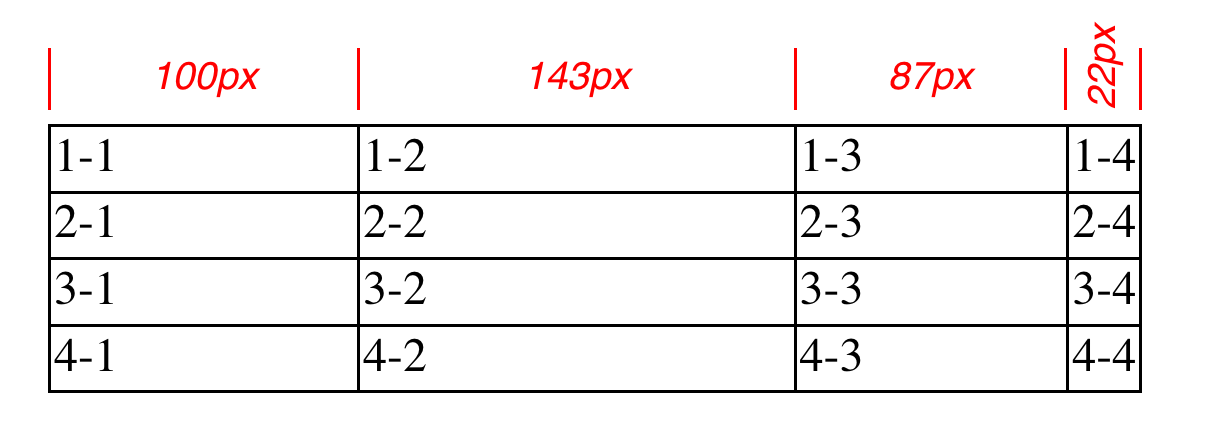
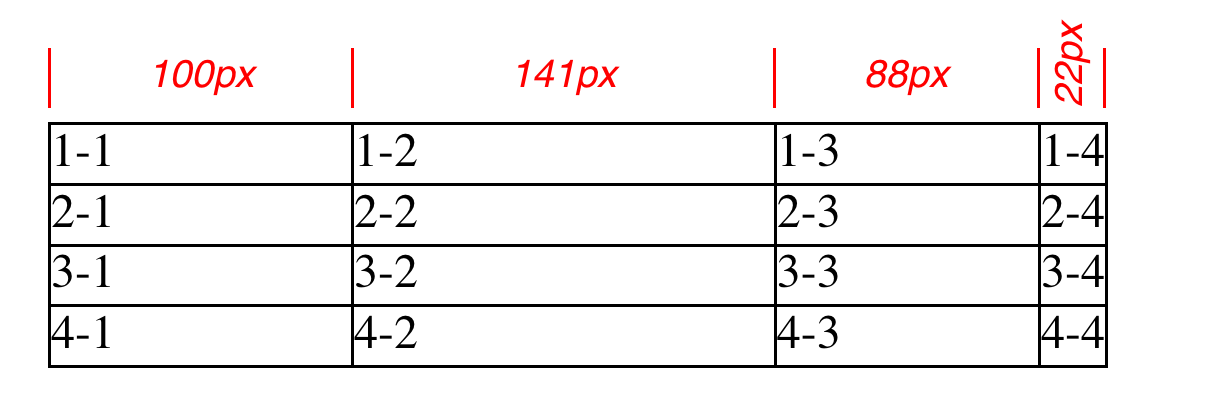
Updated table layout figures after discovering some errors

diff --git a/table-layout-in-css/formatting-grid-cells-basis.html b/table-layout-in-css/formatting-grid-cells-basis.html
@@ -9,10 +9,15 @@
 body {float: left;}
 #g02 {margin-right: 0;}
 
-table {border-collapse: separate; border-spacing: 4px;}
-td {color: gray; border: 1px solid orange; padding: 0.5em;}
+table {border-collapse: separate; border-spacing: 4px; padding: 0; margin: -1px;
+	position: relative; z-index: 1;}
+td {color: gray; border: 1px solid orange; padding: 0.5em;
+	text-align: center;
+	background: rgba(255,255,255,0.667);
+	text-shadow: 0 0 1px white, 0 0 2px white, 0 0 4px white;}
 .grid {position: relative; float: left; margin-right: 2em;}
-.grid .lines {position: absolute; width: 100%; height: 100%;}
+.grid .lines {position: absolute; z-index: 0; width: 100%; height: 100%;
+	border: 2px dotted black; box-sizing: border-box;}
 .grid .lines span {position: absolute; box-sizing: border-box;}
 .grid .lines .row {border-bottom: 2px dotted black; width: 100%;}
 .grid .lines .col {border-right: 2px dotted black; height: 100%;}
@@ -22,9 +27,9 @@ td {color: gray; border: 1px solid orange; padding: 0.5em;}
 
 #g02 span.row:nth-child(1) {height: 34.5%;}
 #g02 span.row:nth-child(2) {height: 66.667%;}
-#g02 span.col:nth-of-type(3) {width: 25.5%;}
+#g02 span.col:nth-of-type(3) {width: 25%;}
 #g02 span.col:nth-of-type(4) {width: 49%;}
-#g02 span.col:nth-of-type(5) {width: 75.5%;}
+#g02 span.col:nth-of-type(5) {width: 76%;}
 
 </style>
 </head>

diff --git a/table-layout-in-css/table-layout-automatic.html b/table-layout-in-css/table-layout-automatic.html
@@ -8,17 +8,17 @@
 <style type="text/css">
 body {width: 372px;}
 table {table-layout: auto; width: auto;
-  border-collapse: collapse;}
-td {border: 1px solid;}
+    border-collapse: collapse;}
+td {border: 1px solid; padding: 0;}
 col#c3 {width: 25%;}
 #r1c2 {width: 40%;}
 #r2c2 {width: 50px;}
 #r2c3 {width: 35px;}
 #r4c1 {width: 100px;}
-#r4c4 {width: 5px;}
+#r4c4 {width: 1px;}
 
 #labels {display: grid; padding: 0; margin: 0 0 0.3em; width: auto;
-	grid-template-columns: 103px 145.5px 90px 25px;
+	grid-template-columns: 101px 140.5px 88px 22px;
 }
 #labels li {list-style-type: none; padding: 0; margin: 0 -1px 0 0;
 	border: 1px solid red; border-width: 0 1px; color: red;
@@ -30,8 +30,8 @@ col#c3 {width: 25%;}
 
 <ol id="labels">
 <li>100px</li>
-<li>143px</li>
-<li>87px</li>
+<li>141px</li>
+<li>88px</li>
 <li><i>22px</i></li>
 </ol>
 <table>

diff --git a/table-layout-in-css/borders-separated.html b/table-layout-in-css/borders-separated.html
@@ -8,6 +8,7 @@
 <style type="text/css">
 table {border-collapse: separate;}
 td {border: 3px double black; padding: 3px;}
+tr:nth-child(2) td:nth-child(2) {border-color: gray;}
 </style>
 </head>
 <body>
